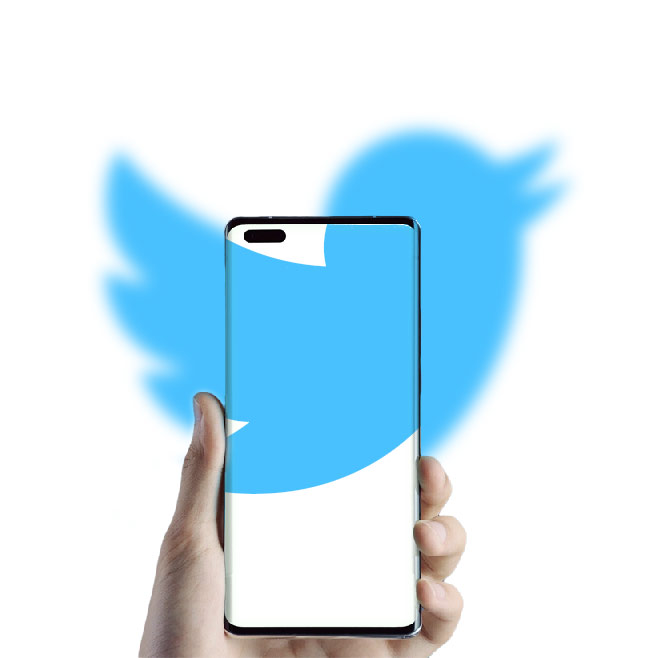
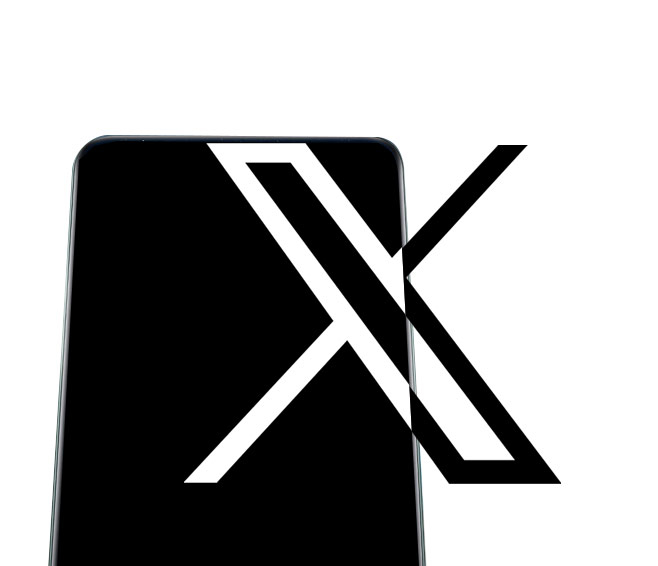
Minor update

diff --git a/index.html b/index.html
@@ -23,10 +23,7 @@
                     </a>
                     <nav class="main_nav">
                         <ul>
-                            <li>欢迎</li>
-                            <li>介绍</li>
-                            <li>关注</li>
-                            <li>挚友</li>
+                            <li>主页</li>
                             <li>leisure blog</li>
                         </ul>
                     </nav>
@@ -45,21 +42,46 @@
         <div id='about' class="content">
             <div id='about_container' class="content_container">
                 <div class="content_main">
-                    <p>聚焦</p>
+                    <p>leisure blog</p>
                     <h2>山河锦绣<br>映前程。</h2>
-                    <a>设计</a>
-                    <a>Code</a>
-                    <a>语言</a>
+                    <a onmouseenter="document.getElementById('about_img').src='images/design.png'">设计</a>
+                    <a onmouseenter="document.getElementById('about_img').src='images/code.png'">Code</a>
+                    <a onmouseenter="document.getElementById('about_img').src='images/lang.png'">语言</a>
                 </div>
-                <div>
-                    <div class="image-container">
-                        <img src="images/code.png" alt="Masked Image" class="masked-image">
+                <div class="image-container">
+                    <img id="about_img" src="images/design.png" alt="About me" class="masked-image">
+                </div>
+            </div>
+        </div>
+        <div id='follow' class="content">
+            <div class="content_container">
+                <div class="content_main">
+                    <p>全面关注</p>
+                    <h2>这下看懂了。</h2>
+                </div>
+                <div id="follow_block_container">
+                    <div class="follow_block" style="background-image: url('images/twitter.jpg'); background-position: left center; text-align: right;">
+                        <h2>X</h2>
+                        <p>尽是新鲜事</p>
+                    </div>
+                    <div class="follow_block" style="background-image: url('images/2233.jpg'); background-position: center bottom; text-align: center;">
+                        <h2>哔哩哔哩</h2>
+                        <p>你所热爱的，就是你的生活</p>
                     </div>
                 </div>
             </div>
         </div>
-
         <footer>
+            <p>主页</p>
+            <div>
+                <p>balabala</p>
+            </div>
+            <div>
+                <p>dilidili</p>
+            </div>
+            <div>
+                <p>pilipala</p>
+            </div>
         </footer>
     </main>
     <svg width="0" height="0" xmlns="http://www.w3.org/2000/svg" x="0px" y="0px">

diff --git a/style.css b/style.css
@@ -130,10 +130,9 @@ body{
 #about{
     color: rgb( 52, 16,  0);
 }
-#about_container{
+#about .content_container, #follow .content_container{
     background-color: rgb(255,219,201);
 }
-
 .image-container {
     position: absolute;
     width: 16rem;
@@ -170,4 +169,56 @@ body{
     float: right;
     top: 50%;
     right: 100px;
+}
+
+#about_container{
+    height: min(32rem, 80vh);
+}
+#follow .content_container{
+    min-height: 45rem;
+}
+#follow .content_main{
+    color: rgb( 52, 16,  0);
+}
+#follow #follow_block_container{
+    position: absolute;
+    top: 14rem;
+    left: 4rem;
+    right: 4rem;
+    display: grid;
+    grid-template-columns: 7fr 3fr;
+    grid-column-gap: 2rem;
+    grid-row-gap: 2rem;
+}
+.follow_block{
+    background-size: contain;
+    background-repeat: no-repeat;
+    background-position: bottom right;
+    background-image: url("images/2233.jpg");
+    background-color: #fff;
+    padding: 4rem;
+    border-radius: 2rem;
+    height: 18rem;
+    overflow: hidden;
+}
+.follow_block:hover:after{
+    background-color: rgba(0, 0, 0, 0.3);
+}
+.follow_block:first-child{
+    top: 12rem;
+}
+.follow_block:nth-child(2n + 1){
+    left: 4rem;
+}
+.follow_block:nth-child(2n){
+    left: 8rem;
+}
+.follow_block h2{
+    font-size: 2rem;
+    margin: 0;
+}
+footer{
+    background-color: white;
+    min-height: 45rem;
+    width: 100%;
 }
